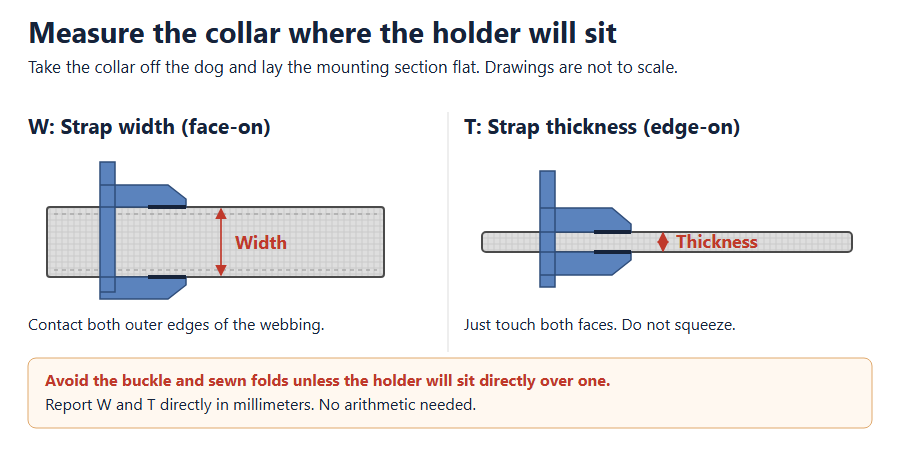
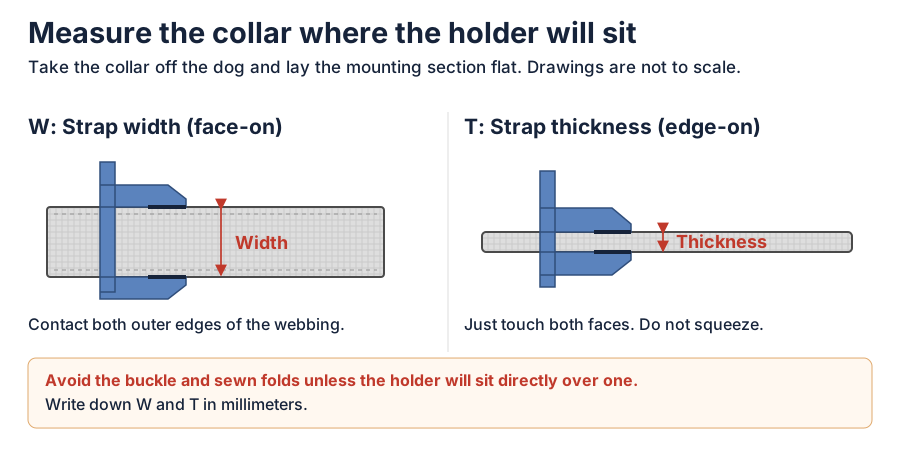
Update AI design article and imagery

diff --git a/src/content/blog/how-i-design-things-with-ai.md b/src/content/blog/how-i-design-things-with-ai.md
@@ -21,6 +21,8 @@ AI gave me a way back into CAD through tools I already knew: code and VS Code. A
 
 A Pixel Tag holder for my dog's collar is a good example of where that process has gotten me. I couldn't thread the sewn collar through the closed loops on existing holders. I needed something that could go onto the webbing from the side. That was the idea. Getting from there to a part on the collar took measurements, a couple of small fit tests, some broken clips, and a few tools that each answered a different question.
 
+If you just want the holder, you can download it or customize it for your collar on MakerWorld: [Side-Entry Dog Collar Holder for Google Pixel Tag](https://makerworld.com/en/models/3676294-side-entry-dog-collar-holder-for-google-pixel-tag#profileId-4221231).
+
 ## Bottom line
 
 I don't ask AI to design the whole thing and then hit Print. I show it what I'm trying to do, ask for something small enough to check, and bring back what I find. Sometimes that's a measurement. Sometimes it's a picture with a circle around the part that doesn't look right. And sometimes it's a clip that broke in my hand.
@@ -29,17 +31,19 @@ The part I wish I'd figured out earlier: once we solve something, I ask the agen
 
 ## The tools I use and what I use them for
 
-In GitHub Copilot, I used GPT-6.2 Sol for most of the collar-holder project. That's the model I used for this example, not a requirement for following the process.
+I used GPT-6.2 Sol in GitHub Copilot for most of this project; the process doesn't depend on it.
 
 | Tool | Where it fits in my process |
 | --- | --- |
 | **[GitHub Copilot in VS Code](https://code.visualstudio.com/docs/copilot/overview)** | Turn a description, sketch, or marked-up screenshot into a design change. Edit the model code, run the rebuild, and review the results with me. |
-| **Measuring tools:** [digital calipers](https://www.amazon.com/dp/B087N5N45G) or graph paper and a camera | I use calipers for direct measurements, or a photo on graph paper with a known grid size to give AI a scale for estimates. The caliper link is a non-affiliate example of an inexpensive 6-inch (150 mm) set; similar sets work fine. |
+| **Measuring tools:** [digital calipers](https://www.amazon.com/dp/B087N5N45G) or graph paper and a camera | I use calipers for direct measurements, or a photo on graph paper with a known grid size to give AI a scale for estimates. |
 | **[Python](https://www.python.org/downloads/) and [build123d](https://build123d.readthedocs.io/en/latest/)** | Model the part with named dimensions. I can change one parameter and regenerate an STL instead of redrawing the part or scaling the whole thing. |
-| **[Blender](https://www.blender.org/) with [blendquery](https://github.com/uki-dev/blendquery)** | Import build123d geometry into a separate 3D package for stronger renders and animations when the STL viewer isn't enough. |
 | **[STL Viewer by Slevesque](https://marketplace.visualstudio.com/items?itemName=slevesque.vscode-3dviewer) in VS Code** | Quickly inspect the exported part without switching apps. When the outside view isn't enough, generate a cross-section from CAD. |
+| **[Blender](https://www.blender.org/), run from Python** | Render the exported model when I want a presentation image rather than a check, like this post's header and the clip test render below. |
 | **[Bambu Studio](https://github.com/bambulab/BambuStudio/releases) and a [Bambu Lab P2S](https://wiki.bambulab.com/en/p2s)** | Check orientation, supports, and filament use in the slicer, then print the test. The [Bambu Studio command line](https://github.com/bambulab/BambuStudio/wiki/Command-Line-Usage) helps me repeat slice checks without doing the same clicks every time. |
 | **[OpenSCAD](https://openscad.org/) and [MakerWorld's Parametric Model Maker](https://makerworld.com/en/makerlab/parametricModelMaker?pageType=home)** | Give someone else a way to change fit and lettering in the browser instead of asking them to run my Python project. |
+
+The caliper link is a non-affiliate example of an inexpensive 6-inch (150 mm) set; similar sets work fine.
 
 ## I start with the thing in my hand
 
@@ -49,13 +53,17 @@ This is where I reach for the calipers. The collar was nominally 20 mm, but the 
 
 ![Measurement diagram showing where to measure the strap width face-on and its thickness edge-on without compressing the webbing.](/images/ai-assisted-pixel-tag-holder/measure-collar.png)
 
-**No calipers? Try graph paper.** Set the part on paper with a known grid size, such as 5 mm squares, and take a photo straight down with several squares visible around it. Tell the AI the square size and ask it to use the grid to estimate the part's width and length. For thickness, take a separate side-on photo with the grid behind the edge you're measuring, as close to the same plane as possible.
+> **No calipers? Try graph paper.** Set the part on paper with a known grid size, such as 5 mm squares, and take a photo straight down with several squares visible around it. Tell the AI the square size and ask it to use the grid to estimate the part's width and length. For thickness, take a separate side-on photo with the grid behind the edge you're measuring, as close to the same plane as possible.
+>
+> You can print graph paper, too. Select **Actual size** or **100%** instead of **Fit to page**, then check several squares with a ruler before using the grid as your scale. I treat the measurements from a photo as a starting point. A tilted camera or a raised edge can throw them off, so for a snug fit I'd still print a small test piece before committing to the whole part.
 
-You can print graph paper, too. Select **Actual size** or **100%** instead of **Fit to page**, then check several squares with a ruler before using the grid as your scale. I treat the measurements from a photo as a starting point. A tilted camera or a raised edge can throw them off, so for a snug fit I'd still print a small test piece before committing to the whole part.
+Here's the order things happened in, because the next few sections jump around: small clip and pocket tests came first, then full holders. The push-out fix and the broken clip both came from printing full versions, and version 28, printed in ASA, is the one on the collar.
 
 The design changed as I got my hands on it. An early version had a separate screw-on bezel. We moved to one piece that loads the tag from the back. When the little bumps inside the pocket held the tag firmly, I thought we'd solved that part. Then I tried getting the tag back out.
 
 I could have asked the AI to make the pocket looser. But I liked how securely the tag sat. The problem was that I had nowhere to push it from the other side. We left the little bumps alone and extended the speaker opening so I could push the tag out through it. I wouldn't have thought to ask for that on the first pass. I had to try using the holder to find out what was missing.
+
+## I check changes before I print them
 
 Those are the kinds of changes I want to be able to make without starting over. With the dimensions in code, I can ask, “Keep the part that holds the tag the same, but make this fit a wider collar.” When I spotted a notch where a rail met a clip, I circled it in a screenshot so the AI knew exactly where to look. That gave us something specific to fix without changing the rest of the holder.
 
@@ -124,6 +132,10 @@ I did the pocket test for the same reason. I wanted to know how much the tag mov
 
 Printing face-down looked like the easier option in the slicer. It could use shorter supports, and the print was quicker on paper. Then a clip snapped along a layer as I removed the supports.
 
+![Two early PLA test holders: a yellow one without a tag, and a blue one with the Pixel Tag seated and one corner clip snapped off where it meets the body.](/images/ai-assisted-pixel-tag-holder/broken-clip.jpg)
+
+That blue print shows where the clips kept breaking: right at the root, where the arm meets the body.
+
 “Make it stronger” could have sent us in a dozen directions. What helped was telling the AI which piece broke and when: it was one of the arms holding the collar, not one of the little bumps holding the tag, and it happened during cleanup. That gave us a reason to look at which way the layers ran, not just how thick the clip was.
 
 I smoothed and reinforced the places where the clips join the body and stood the holder on a short end instead of laying it face-down. The next PLA print felt noticeably stronger in hand. I changed both the shape and the print direction, so I can't tell you how much credit each change deserves. But I knew which combination I wanted to carry into the ASA print.
@@ -142,17 +154,17 @@ The lettering was a good example of something I noticed by looking at the result
 
 I made an OpenSCAD version so someone on MakerWorld could enter those choices in the browser instead of setting up my Python tools. I kept the Python version as my reference and compared the files the two tools produced. One combination even failed when Python tried to join a clip to the body, while OpenSCAD produced a part. I reran the Python case on its own and got the same failure. Being able to export one version didn't prove the other worked, and checking either on my computer didn't prove all the sizes fit in real life.
 
-You can download or customize the finished model here: [Side-Entry Dog Collar Holder for Google Pixel Tag - Free 3D Print Model - MakerWorld](https://makerworld.com/en/models/3676294-side-entry-dog-collar-holder-for-google-pixel-tag#profileId-4221231).
+![Python and OpenSCAD exports of the same 40 mm holder shown side by side in three views: the lettering face, the collar-facing pocket, and the end profile with both clip openings.](/images/ai-assisted-pixel-tag-holder/six-view-comparison.png)
 
-![Six views of the Python and OpenSCAD exports, showing the lettering face, collar-facing pocket, side profiles, and both clip openings.](/images/ai-assisted-pixel-tag-holder/six-view-comparison.png)
+For the 40 mm size shown here, the two exports match in every view. The comparison mattered for the combinations where they didn't.
 
-Two-color text was another one of those “it looks right, so it must be right” moments. The file had separate colors, but when I actually sliced it, Bambu Studio planned to use one filament. I had to keep the letters lined up with the body and tell the slicer which filament belonged to each. Only then did I check that both colors would go onto the holder itself, not just into waste.
+Two-color text was another one of those “it looks right, so it must be right” moments. The file had separate colors, but when I actually sliced it, Bambu Studio planned to use one filament. I had to keep the letters lined up with the body and tell the slicer which filament belonged to each. Then I checked that both colors would go onto the holder itself, not just into waste.
 
 The next surprise was the estimate: about eight hours and 226 filament swaps for one little holder on my single-nozzle setup. That was a slicer estimate, not a print I ran. I still like the two-color look, but seeing the cost made the default an easy decision: engraved text in one color, with the inlay there if someone wants it.
 
 The same idea applies to sharing the design. I prepared a MakerWorld listing with real photos and rich text, and kept the fixed ASA profile separate from the customizable model. One gives someone a known set of slicer settings for a fixed size; the other generates geometry for measurements they enter. Reopening the saved draft checks what the site actually kept. It doesn't tell me whether every Customizer download will slice or fit.
 
-## 5. Save what I'd otherwise have to explain again
+## Save what I'd otherwise have to explain again
 
 If you're wondering what I mean by **agents** and **skills**, I think of an agent as the job I'm asking for and a skill as the instructions it can pull out to do that job. I go to my CAD Builder when the clip needs to change shape. I go to my 3D Print Operator when I want to know whether I can print that shape the way I intended. I don't need either one to do everything, and neither replaces me trying the part on the collar.
 
